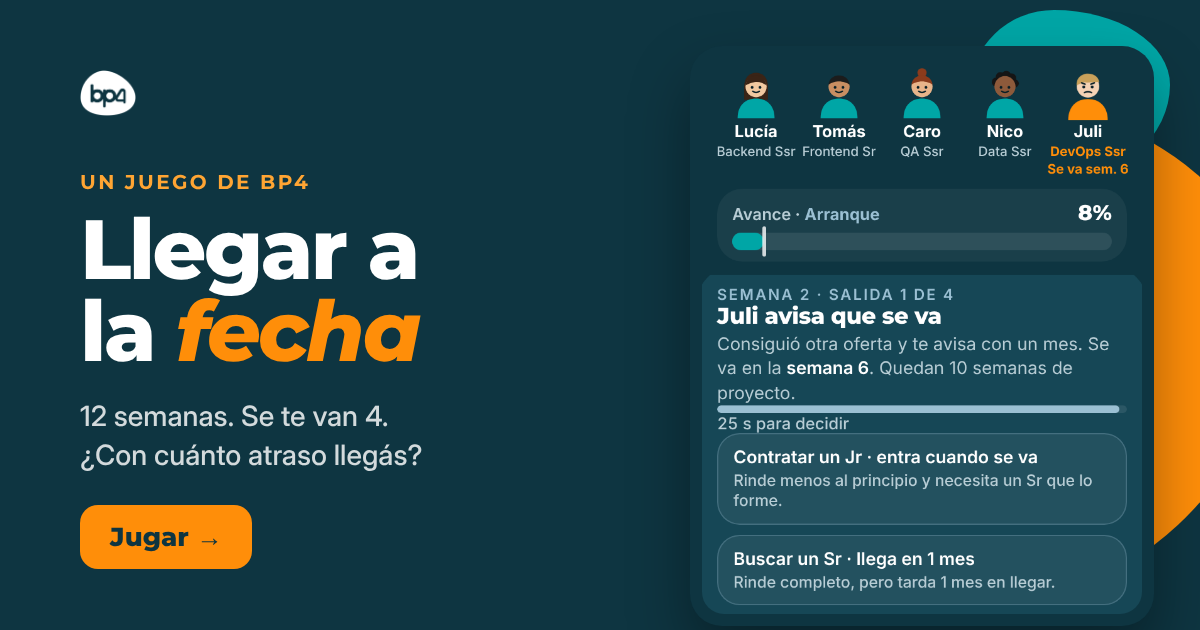
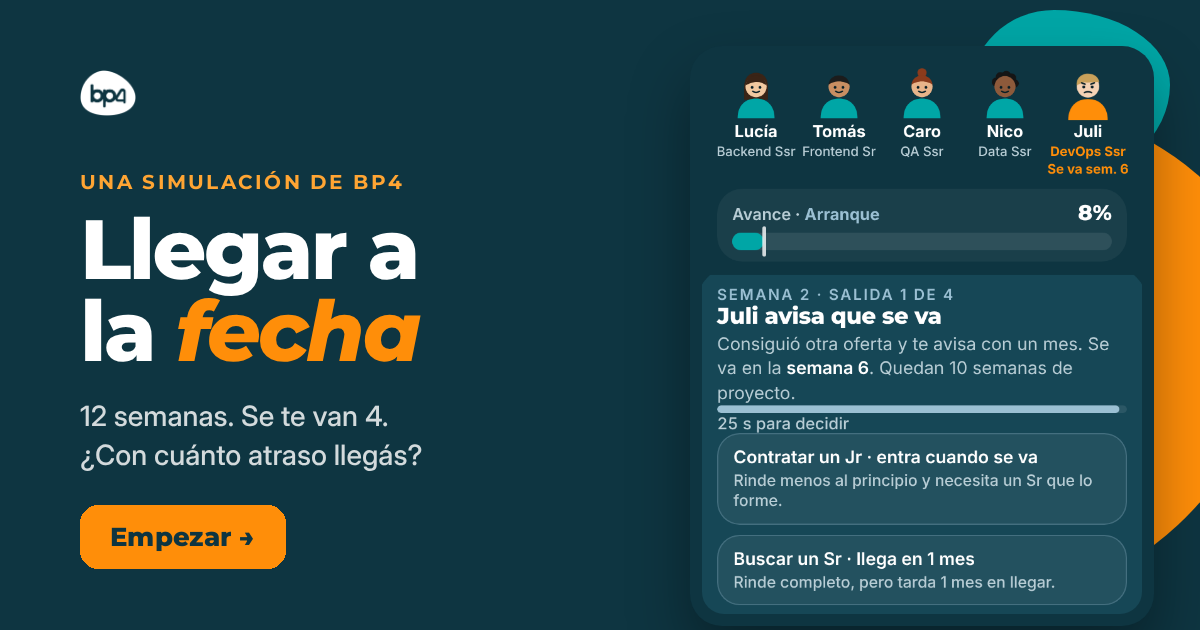
Simulaciones: quitar 'juego/jugar' de textos visibles e imágenes para compartir
Claude-Session: https://claude.ai/code/session_01E9yEz9RbffttUFQBJvSEUR

Changed region(s): [[0.0925, 0.7841, 0.2467, 0.9048], [0.0925, 0.2714, 0.3392, 0.3016]]

diff --git a/juegos/llegar-a-la-fecha/index.html b/juegos/llegar-a-la-fecha/index.html
@@ -4,22 +4,22 @@
 <meta charset="utf-8">
 <meta name="viewport" content="width=device-width,initial-scale=1,viewport-fit=cover">
 <title>Llegar a la fecha</title>
-<meta name="description" content="Un juego de BP4: tu equipo tiene 12 semanas para entregar y se te van 4 personas. ¿Con cuánto atraso llegás?">
+<meta name="description" content="Una simulación de BP4: tu equipo tiene 12 semanas para entregar y se te van 4 personas. ¿Con cuánto atraso llegás?">
 <meta name="theme-color" content="#071E26">
 <meta property="og:type" content="website">
 <meta property="og:url" content="https://bp-4.com/juegos/llegar-a-la-fecha/">
-<meta property="og:title" content="Llegar a la fecha · un juego de BP4">
-<meta property="og:description" content="Un juego de BP4: tu equipo tiene 12 semanas para entregar y se te van 4 personas. ¿Con cuánto atraso llegás?">
+<meta property="og:title" content="Llegar a la fecha · una simulación de BP4">
+<meta property="og:description" content="Una simulación de BP4: tu equipo tiene 12 semanas para entregar y se te van 4 personas. ¿Con cuánto atraso llegás?">
 <meta property="og:image" content="https://bp-4.com/juegos/llegar-a-la-fecha/preview.png">
 <meta property="og:image:width" content="1200">
 <meta property="og:image:height" content="630">
-<meta property="og:image:alt" content="Llegar a la fecha, un juego de BP4">
+<meta property="og:image:alt" content="Llegar a la fecha, una simulación de BP4">
 <meta property="og:locale" content="es_419">
 <meta property="og:site_name" content="BP4">
 <link rel="canonical" href="https://bp-4.com/juegos/llegar-a-la-fecha/">
 <meta name="twitter:card" content="summary_large_image">
-<meta name="twitter:title" content="Llegar a la fecha · un juego de BP4">
-<meta name="twitter:description" content="Un juego de BP4: tu equipo tiene 12 semanas para entregar y se te van 4 personas. ¿Con cuánto atraso llegás?">
+<meta name="twitter:title" content="Llegar a la fecha · una simulación de BP4">
+<meta name="twitter:description" content="Una simulación de BP4: tu equipo tiene 12 semanas para entregar y se te van 4 personas. ¿Con cuánto atraso llegás?">
 <meta name="twitter:image" content="https://bp-4.com/juegos/llegar-a-la-fecha/preview.png">
 <link rel="preload" href="/_ds/bp4-design-system-74aeafca-6a8d-44c7-afc9-dea3e27f2c16/assets/fonts/Montserrat-Variable.woff2" as="font" type="font/woff2" crossorigin>
 <link rel="preload" href="/_ds/bp4-design-system-74aeafca-6a8d-44c7-afc9-dea3e27f2c16/assets/fonts/Inter-Variable.woff2" as="font" type="font/woff2" crossorigin>
@@ -336,7 +336,7 @@ html.modo-desk .d-pie a.pie-cta:hover{color:var(--mandarina)}
 </header>
 <div class="d-main">
 <div class="d-izq solo-desk">
-  <p class="eyebrow">Un juego de BP4 · People Care</p>
+  <p class="eyebrow">Una simulación de BP4 · People Care</p>
   <h1 class="d-h1">Todo proyecto pierde talento en algún momento. <em class="hl">Con BP4, estás preparado.</em></h1>
   <p class="d-bajada">Tu equipo de 5 tiene 12 semanas para entregar un proyecto. En el camino se te van 4 personas. Cada vez, elegís cómo cubrir el hueco.</p>
   <ol class="d-pasos">
@@ -354,7 +354,7 @@ html.modo-desk .d-pie a.pie-cta:hover{color:var(--mandarina)}
   <section class="pantalla" id="inicio">
[1 lines of base64/hex data omitted]
     <div class="inicio-centro">
-      <p class="eyebrow">Un juego de BP4</p>
+      <p class="eyebrow">Una simulación de BP4</p>
       <h1>Llegar a la <em class="hl">fecha</em></h1>
       <p class="instr">Tu equipo de 5 tiene <b>12 semanas</b> para entregar. En el camino se te van <b>4 personas</b>. Cada vez, elegís cómo cubrir el hueco.</p>
       <ol class="pasos">
@@ -448,7 +448,7 @@ html.modo-desk .d-pie a.pie-cta:hover{color:var(--mandarina)}
 
     <div class="acciones">
       <a class="btn primario" href="https://www.linkedin.com/in/felipebrugo" target="_blank" rel="noopener">Charlemos en LinkedIn</a>
-      <button class="btn secundario" id="otraVez">Jugar de nuevo</button>
+      <button class="btn secundario" id="otraVez">Repetir la simulación</button>
       <a class="btn link" id="compartir" href="#" target="_blank" rel="noopener">Compartir</a>
     </div>
   </section>
@@ -525,7 +525,7 @@ html.modo-desk .d-pie a.pie-cta:hover{color:var(--mandarina)}
       titulo:p.nombre + " se va", motivo:azar(MOTIVOS.escaso),
       contexto:"Buscándolo por tu cuenta, un " + p.area + " Sr hoy lleva <b>2 meses</b>. " + sr.nombre + " tiene tiempo para formar a alguien.",
       porque:"Un Sr tardaba 2 meses y " + sr.nombre + " podía formar a un Jr: en 3 semanas ya rendía.",
-      bien:"Con un Sr a 2 meses y " + sr.nombre + " libre para formar, el Jr es la jugada: en 3 semanas ya rinde.",
+      bien:"Con un Sr a 2 meses y " + sr.nombre + " libre para formar, el Jr es la mejor opción: en 3 semanas ya rinde.",
       consejo:{sr:"Dos meses con el puesto vacío es demasiado. Con " + sr.nombre + " libre para formar, convenía un Jr.",
                rep:"Repartir carga al equipo por mucho tiempo. Con " + sr.nombre + " libre para formar, convenía un Jr."},
       oferta:"Por tu cuenta, un " + p.area + " Sr tarda 2 meses. En BP4 tenemos perfiles ya validados y te presentamos uno en 1 a 2 semanas."}; },
@@ -931,7 +931,7 @@ html.modo-desk .d-pie a.pie-cta:hover{color:var(--mandarina)}
     var ok = op === s.mejor, c = $("coach");
     c.hidden = false; c.className = "coach " + (ok ? "bien" : "consejo");
     setTimeout(ok ? SONIDOS.bien : SONIDOS.consejo, 120);
-    $("coachTit").textContent = tarde ? (ok ? "BP4 · Te salvó el reloj" : "BP4 · Consejo") : ok ? "BP4 · Bien jugado" : "BP4 · Consejo";
+    $("coachTit").textContent = tarde ? (ok ? "BP4 · Te salvó el reloj" : "BP4 · Consejo") : ok ? "BP4 · Bien resuelto" : "BP4 · Consejo";
     $("coachTxt").textContent = tarde ? (ok ? "Repartir era lo correcto acá, pero no decidir casi nunca lo es. " + s.bien : "No decidir también es decidir: el equipo absorbió el trabajo. " + s.consejo.rep) : ok ? s.bien : s.consejo[op];
     $("coachOferta").hidden = !s.oferta; $("coachOferta").textContent = s.oferta || "";
     S.pendiente = reanudar;
@@ -949,7 +949,7 @@ html.modo-desk .d-pie a.pie-cta:hover{color:var(--mandarina)}
     return dias(terminaEn(SALIDAS.map(function(s){ return s.mejor; })));
   }
   // Estrellas según los días perdidos contra la mejor jugada (cortes calibrados con los 81 resultados posibles).
-  var NOTAS = [[0,3,"La mejor jugada posible"],[7,2.5,"Muy cerca de lo mejor"],[15,2,"Bien jugado"],[25,1.5,"El equipo lo sintió"],[38,1,"Muchos días perdidos"],[999,0.5,"El proyecto se te fue de las manos"]];
+  var NOTAS = [[0,3,"La mejor decisión posible"],[7,2.5,"Muy cerca de lo mejor"],[15,2,"Bien resuelto"],[25,1.5,"El equipo lo sintió"],[38,1,"Muchos días perdidos"],[999,0.5,"El proyecto se te fue de las manos"]];
   function nota(extra){
     for (var i=0;i<NOTAS.length;i++) if (extra <= NOTAS[i][0]) return {estrellas:NOTAS[i][1], frase:NOTAS[i][2]};
   }
@@ -975,7 +975,7 @@ html.modo-desk .d-pie a.pie-cta:hover{color:var(--mandarina)}
     $("resTitulo").textContent = n.frase;
     pintarEstrellas(n.estrellas);
     $("resDias").textContent = d;
-    $("resMejor").innerHTML = d <= mejor ? "Con las opciones que tenías, nadie llega antes que esto." : "La mejor jugada posible: <b>" + mejor + " días</b>.";
+    $("resMejor").innerHTML = d <= mejor ? "Con las opciones que tenías, nadie llega antes que esto." : "La mejor resolución posible: <b>" + mejor + " días</b>.";
     var ul = $("repaso"); ul.innerHTML = "";
     SALIDAS.forEach(function(s, k){
       var op = S.elecciones[k], li = document.createElement("li");
@@ -994,7 +994,7 @@ html.modo-desk .d-pie a.pie-cta:hover{color:var(--mandarina)}
     $("bp4Dias").textContent = d - bp4;
     $("bp4Detalle").hidden = true; $("bp4Como").setAttribute("aria-expanded", "false");
     $("bp4Nota").textContent = "Con BP4: " + bp4 + " días de atraso contra tus " + d + ". Calculado con 2 semanas por reemplazo, el peor caso.";
-    $("compartir").href = wa("Jugué «Llegar a la fecha» de BP4: saqué " + textoEstrellas(n.estrellas) + " de 3 (" + d + " días de atraso). ¿Vos sacás las 3?");
+    $("compartir").href = wa("Hice la simulación «Llegar a la fecha» de BP4: saqué " + textoEstrellas(n.estrellas) + " de 3 (" + d + " días de atraso). ¿Vos sacás las 3?");
     ultimoResultado = d;
     SHEET.evento("terminar", {resultado: d, resultado_txt: d + " días de atraso"});
     $("contacto").hidden = !SHEET.activo;

diff --git a/juegos/que-no-se-vaya/index.html b/juegos/que-no-se-vaya/index.html
@@ -4,22 +4,22 @@
 <meta charset="utf-8">
 <meta name="viewport" content="width=device-width,initial-scale=1,viewport-fit=cover">
 <title>Que no se vaya · BP4</title>
-<meta name="description" content="Un juego de un minuto para líderes de tecnología: detectá a tiempo quién de tu equipo se está por ir.">
+<meta name="description" content="Una simulación de un minuto para líderes de tecnología: detectá a tiempo quién de tu equipo se está por ir.">
 <meta name="theme-color" content="#071E26">
 <meta property="og:type" content="website">
 <meta property="og:url" content="https://bp-4.com/juegos/que-no-se-vaya/">
-<meta property="og:title" content="Que no se vaya · un juego de BP4">
-<meta property="og:description" content="Un juego de un minuto para líderes de tecnología: detectá a tiempo quién de tu equipo se está por ir.">
+<meta property="og:title" content="Que no se vaya · una simulación de BP4">
+<meta property="og:description" content="Una simulación de un minuto para líderes de tecnología: detectá a tiempo quién de tu equipo se está por ir.">
 <meta property="og:image" content="https://bp-4.com/juegos/que-no-se-vaya/preview.png">
 <meta property="og:image:width" content="1200">
 <meta property="og:image:height" content="630">
-<meta property="og:image:alt" content="Que no se vaya, un juego de BP4">
+<meta property="og:image:alt" content="Que no se vaya, una simulación de BP4">
 <meta property="og:locale" content="es_419">
 <meta property="og:site_name" content="BP4">
 <link rel="canonical" href="https://bp-4.com/juegos/que-no-se-vaya/">
 <meta name="twitter:card" content="summary_large_image">
-<meta name="twitter:title" content="Que no se vaya · un juego de BP4">
-<meta name="twitter:description" content="Un juego de un minuto para líderes de tecnología: detectá a tiempo quién de tu equipo se está por ir.">
+<meta name="twitter:title" content="Que no se vaya · una simulación de BP4">
+<meta name="twitter:description" content="Una simulación de un minuto para líderes de tecnología: detectá a tiempo quién de tu equipo se está por ir.">
 <meta name="twitter:image" content="https://bp-4.com/juegos/que-no-se-vaya/preview.png">
 <link rel="preload" href="/_ds/bp4-design-system-74aeafca-6a8d-44c7-afc9-dea3e27f2c16/assets/fonts/Montserrat-Variable.woff2" as="font" type="font/woff2" crossorigin>
 <link rel="preload" href="/_ds/bp4-design-system-74aeafca-6a8d-44c7-afc9-dea3e27f2c16/assets/fonts/Inter-Variable.woff2" as="font" type="font/woff2" crossorigin>
@@ -282,7 +282,7 @@ html.modo-desk .opcion{padding:13px 14px}
 </header>
 <div class="d-main">
 <div class="d-izq solo-desk">
-  <p class="eyebrow">Un juego de BP4 · People Care</p>
+  <p class="eyebrow">Una simulación de BP4 · People Care</p>
   <h1 class="d-h1">Conseguir al perfil nunca fue lo difícil. <em class="hl">Lo difícil viene después.</em></h1>
   <p class="d-bajada">Sos líder de un equipo de 5. Si alguien tiene un problema y nadie lo resuelve, se va. El primer caso es de práctica.</p>
   <ol class="d-pasos">
@@ -300,7 +300,7 @@ html.modo-desk .opcion{padding:13px 14px}
   <section class="pantalla" id="inicio">
[1 lines of base64/hex data omitted]
     <div class="inicio-centro">
-      <p class="eyebrow">Un juego de BP4</p>
+      <p class="eyebrow">Una simulación de BP4</p>
       <h1>Que no se <em class="hl">vaya</em></h1>
       <p class="instr">Sos líder de un equipo de 5. Si alguien tiene un problema y nadie lo resuelve, <b>se va.</b></p>
       <ol class="pasos">
@@ -370,7 +370,7 @@ html.modo-desk .opcion{padding:13px 14px}
 
     <div class="acciones">
       <a class="btn primario" href="https://www.linkedin.com/in/felipebrugo" target="_blank" rel="noopener">Charlemos en LinkedIn</a>
-      <button class="btn secundario" id="otraVez">Jugar de nuevo</button>
+      <button class="btn secundario" id="otraVez">Repetir la simulación</button>
       <a class="btn link" id="compartir" href="#" target="_blank" rel="noopener">Compartir</a>
     </div>
   </section>
@@ -578,7 +578,7 @@ html.modo-desk .opcion{padding:13px 14px}
     $("aviso").textContent = "";
     var coach = $("coach");
     if (p.practica){
-      coach.innerHTML = '<b>Práctica:</b> acá el tiempo está frenado. En el juego, el anillo naranja es el tiempo que te queda.';
+      coach.innerHTML = '<b>Práctica:</b> acá el tiempo está frenado. En la simulación, el anillo naranja es el tiempo que te queda.';
       coach.hidden = false;
     } else coach.hidden = true;
     var ops = mezclar([[p.sit.ok, null]].concat(p.sit.malas));
@@ -610,7 +610,7 @@ html.modo-desk .opcion{padding:13px 14px}
         p.practica = false;
         ayuda('<b>Bien. ' + nombre(i) + ' se queda.</b> ' + p.sit.bien +
           '<br><br>Ahora va en serio: vienen 6 casos más, a veces juntos. El anillo corre y, si se vacía, la persona se va.' +
-          '<button class="btn primario" id="aJugar" type="button">A jugar</button>', "bien");
+          '<button class="btn primario" id="aJugar" type="button">Empezar</button>', "bien");
         $("aJugar").addEventListener("click", function(){
           S.practica = false; S.proxima = performance.now() + ARRANQUE;
           ayuda('Tocá a quien se ponga <b>naranja</b>.', "");
@@ -647,8 +647,8 @@ html.modo-desk .opcion{padding:13px 14px}
       ul.appendChild(li);
     });
     $("premio").hidden = quedan !== 5;
-    $("premioWa").href = wa("Jugué «Que no se vaya» de BP4 y sostuve a todo el equipo: 5 de 5. ¿Vos llegás?");
-    $("compartir").href = wa("Jugué «Que no se vaya» de BP4: " + quedan + " de 5 siguen en el equipo. ¿Cuántos sostenés vos?");
+    $("premioWa").href = wa("Hice la simulación «Que no se vaya» de BP4 y sostuve a todo el equipo: 5 de 5. ¿Vos llegás?");
+    $("compartir").href = wa("Hice la simulación «Que no se vaya» de BP4: " + quedan + " de 5 siguen en el equipo. ¿Cuántos sostenés vos?");
     ultimoResultado = quedan;
     SHEET.evento("terminar", {salvados: quedan});
     $("contacto").hidden = !SHEET.activo;
